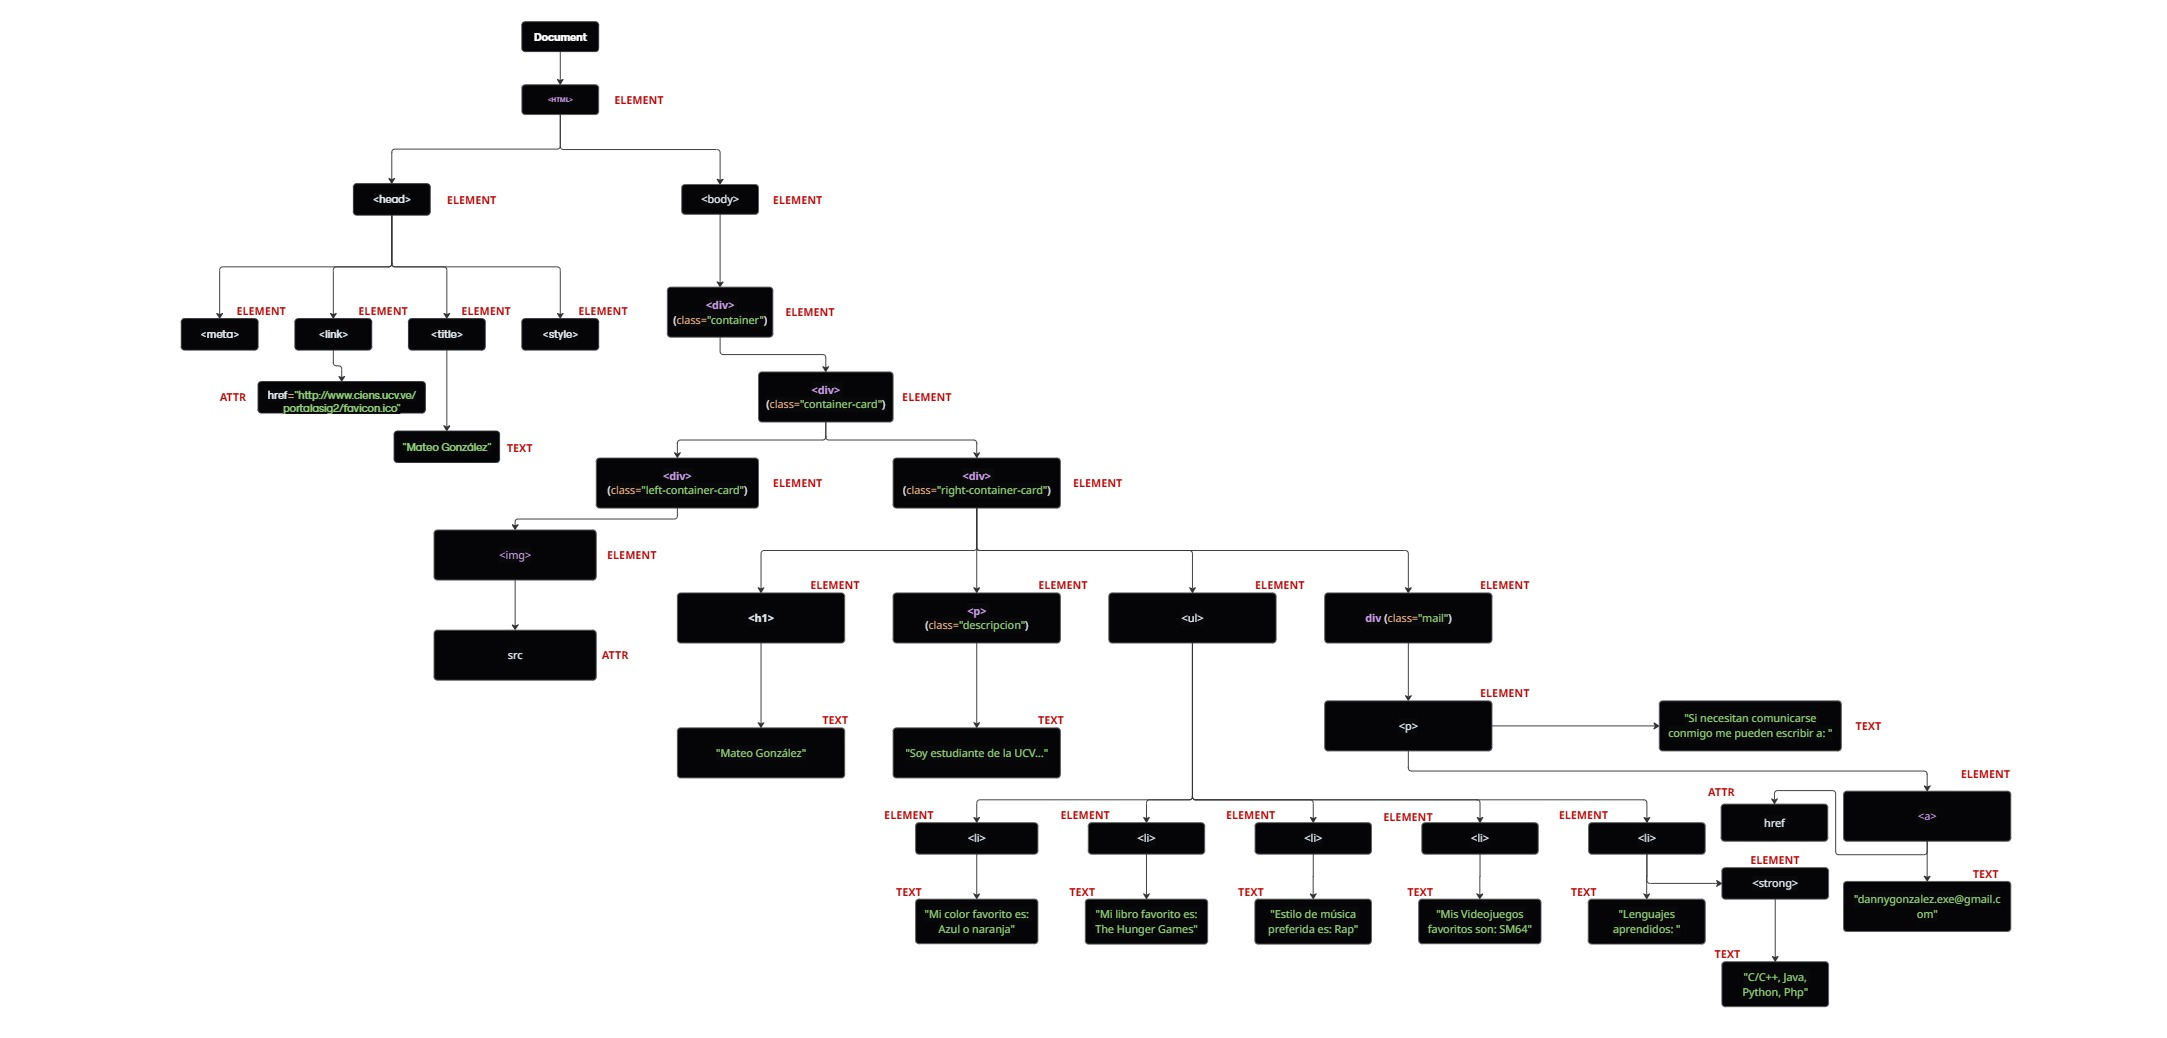
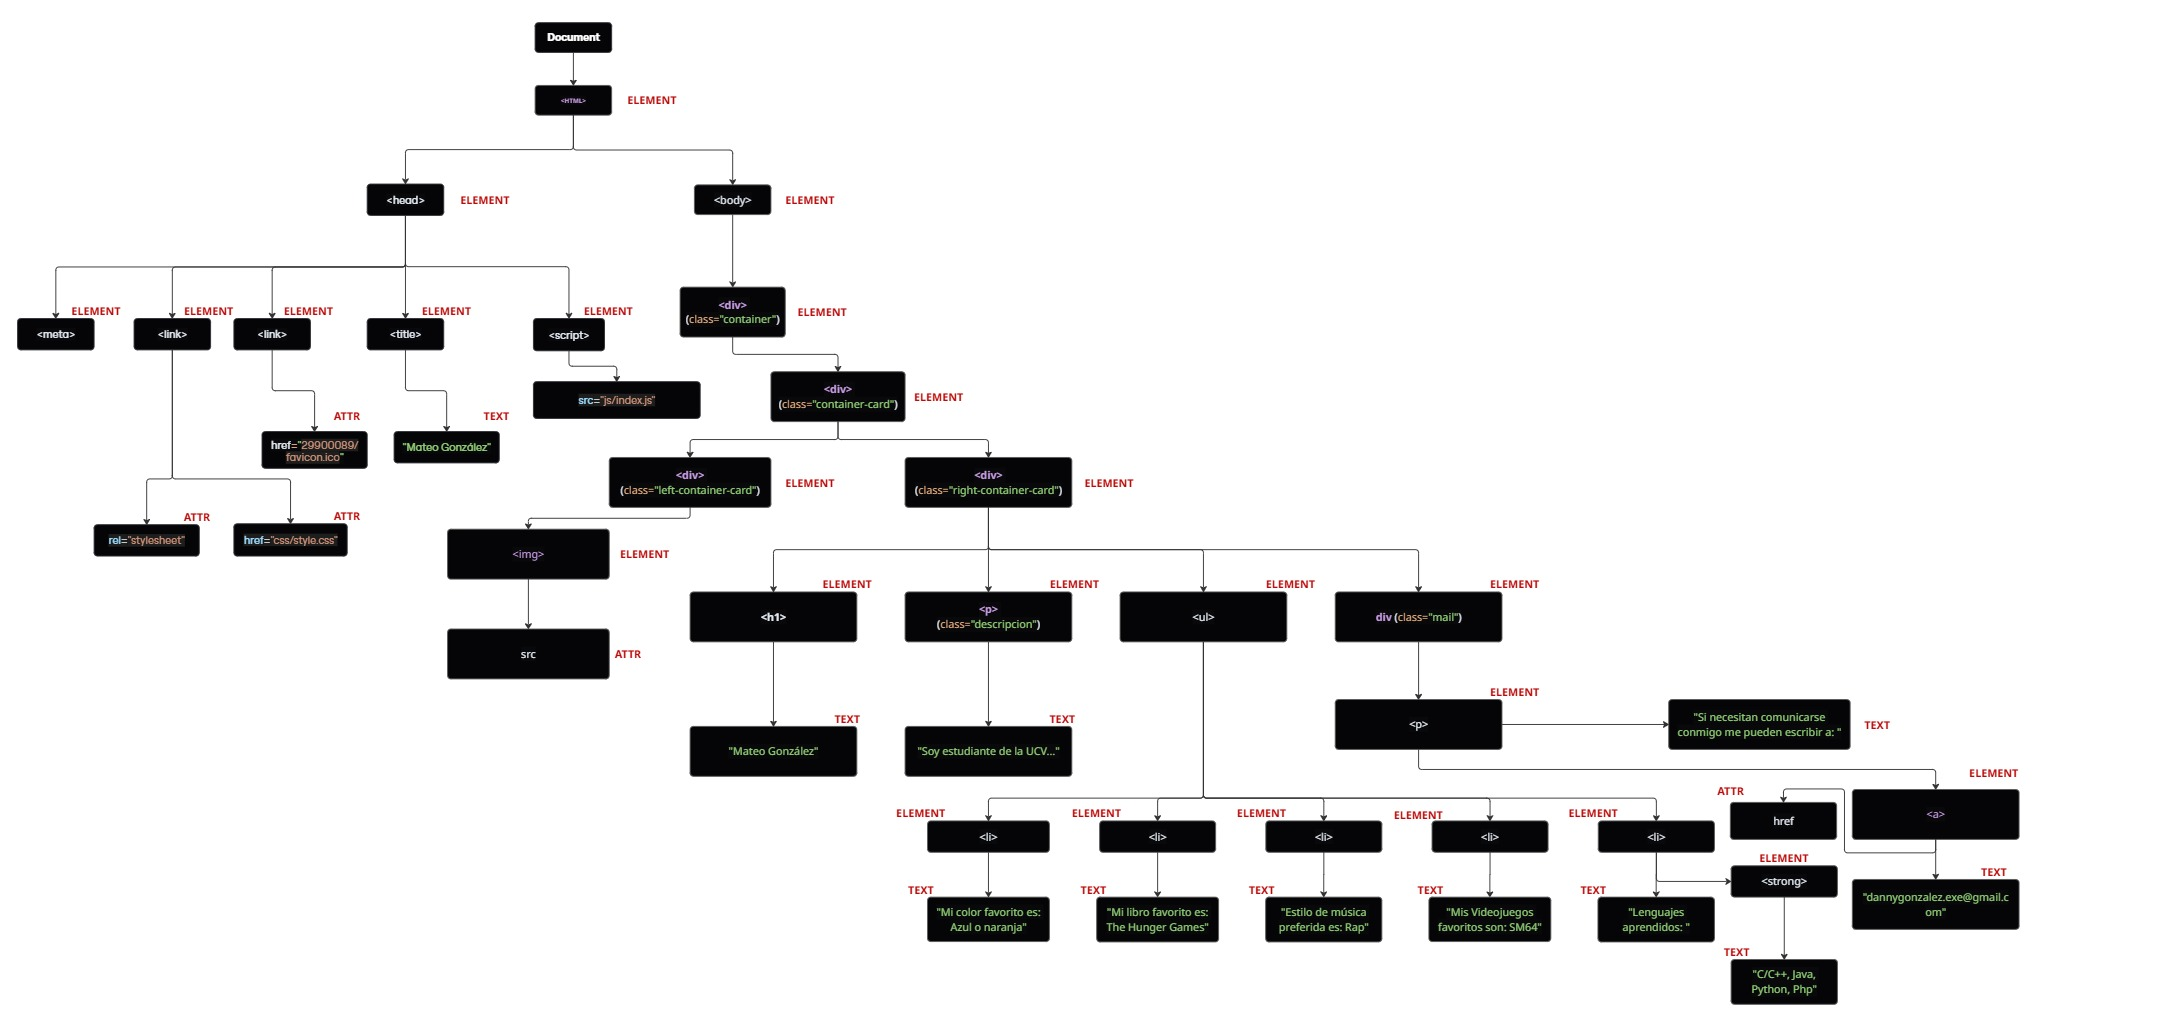
Header and footer fixed (Dev Tools) + DOMTree Pefil (Updated) + Index's Trees (DOM & CSSOM)

diff --git a/css/style.css b/css/style.css
@@ -48,7 +48,7 @@ body{
 header{
     width:100%;
     max-width:1200px;
-    background:#99b4dd;
+    background:#6b81c1;
     color:#fff;
     padding:20px 32px;
     box-sizing:border-box;
@@ -100,7 +100,7 @@ footer{
     max-width:1200px;
     width:100%;
     padding:30px 32px;
-    background:#99b4dd;
+    background:#6b81c1;
     color:#fff;
     display:flex;
     justify-content:center;
@@ -196,7 +196,7 @@ footer{
 /* 3. El Fondo del Header y Content */
 .card-wrap:hover .card-header,
 .card-wrap:hover .card-content {
-    background: #99c5dd;
+    background: #6b81c1;
 }
 
 /* 4. La Imagen (.card-img)
